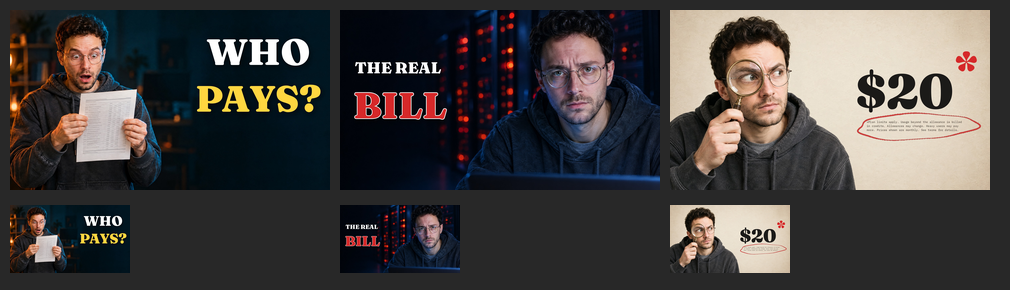
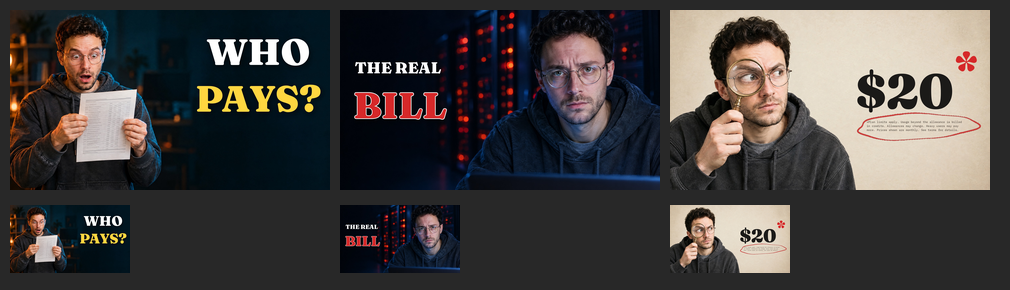
Thumbnail 3: glasses now visible through the magnifier
Claude-Session: https://claude.ai/code/session_01WWWBFRAWHMeYXPWe5Vuw7t

Changed region(s): [[0.6752, 0.1862, 0.7673, 0.5897], [0.6752, 0.8379, 0.7059, 0.9], [0.6752, 0.7759, 0.7059, 0.8069]]

diff --git a/remotion/src/twentylie/thumbnails/make_thumbs.py b/remotion/src/twentylie/thumbnails/make_thumbs.py
@@ -85,7 +85,7 @@ shadow_text(im, (80, 650), "BILL", f_bill, RED, stroke=4, stroke_fill=(255, 255,
 save(im, 2)
 
 # 3. Magnifier, gaze toward the price. Hook: $20* (the asterisk is the curiosity gap)
-im = plate(3).convert("RGBA")
+im = Image.open(os.path.join(HERE, "raw", "T3b.png")).convert("RGB").resize((W, H), Image.LANCZOS).convert("RGBA")  # glasses visible through the magnifier
 f_price = font(FRAUNCES, 290)
 f_star = font(FRAUNCES, 220)
 d = ImageDraw.Draw(im)
